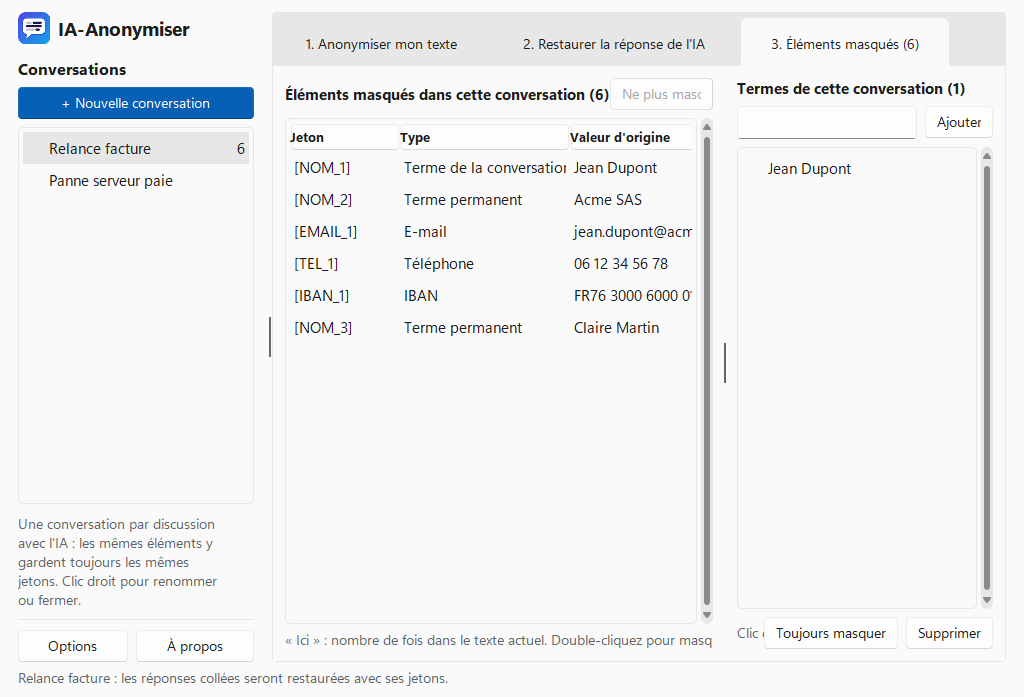
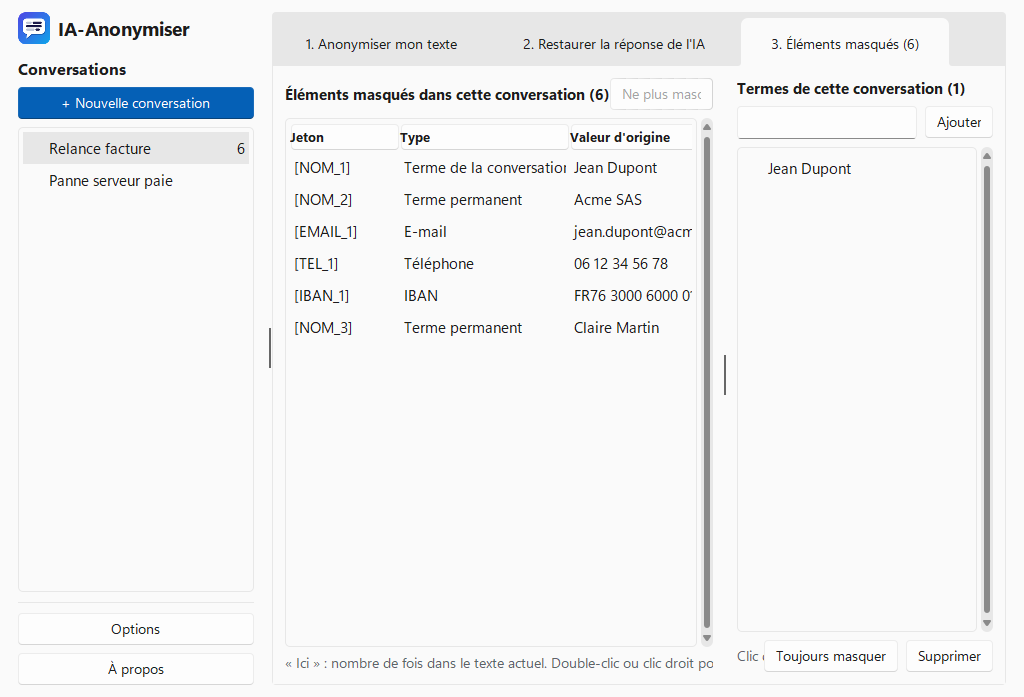
README : clic droit « Ne pas masquer », nouvelles captures
Claude-Session: https://claude.ai/code/session_01HRDvkQPwDqhkpwtVeyn17T

Changed region(s): [[0.0, 0.8737, 0.9688, 0.9943], [0.0, 0.7231, 0.2188, 0.8737], [0.9375, 0.8436, 0.9688, 0.8737]]

diff --git a/README.md b/README.md
@@ -36,7 +36,7 @@ Les conversations sont conservées d'un lancement à l'autre : vous pouvez resta
 
 ![Onglet Éléments masqués](docs/clair-elements.png)
 
-Double-cliquez sur une ligne du tableau des éléments masqués pour laisser cet élément en clair, ou pour le masquer à nouveau.
+Pour laisser un élément en clair, faites un clic droit dessus → **Ne pas masquer**. Ça marche dans les trois onglets : sur la valeur surlignée dans votre texte, sur un jeton, ou sur une ligne du tableau des éléments masqués. Le même clic droit permet de le masquer à nouveau.
 
 ## Options
 
@@ -62,7 +62,7 @@ En anglais, les jetons sont aussi traduits : `[NAME_1]`, `[PHONE_1]`, `[CARD_1]`
 
 ## Limites
 
-La détection repose sur des motifs. Elle ne reconnaît pas un nom qui ne figure pas dans vos termes, une adresse postale doit être ajoutée comme terme, et un nom de machine sans point (`SRV-PAIE01`) aussi. À l'inverse, la détection des FQDN peut masquer des mots comme `ASP.NET` : double-cliquez sur la ligne pour les laisser en clair. **Relisez toujours le texte de droite avant de l'envoyer.**
+La détection repose sur des motifs. Elle ne reconnaît pas un nom qui ne figure pas dans vos termes, une adresse postale doit être ajoutée comme terme, et un nom de machine sans point (`SRV-PAIE01`) aussi. À l'inverse, la détection des FQDN peut masquer des mots comme `ASP.NET` : faites un clic droit → **Ne pas masquer** pour les laisser en clair. **Relisez toujours le texte de droite avant de l'envoyer.**
 
 ## Vérifier le téléchargement
 
